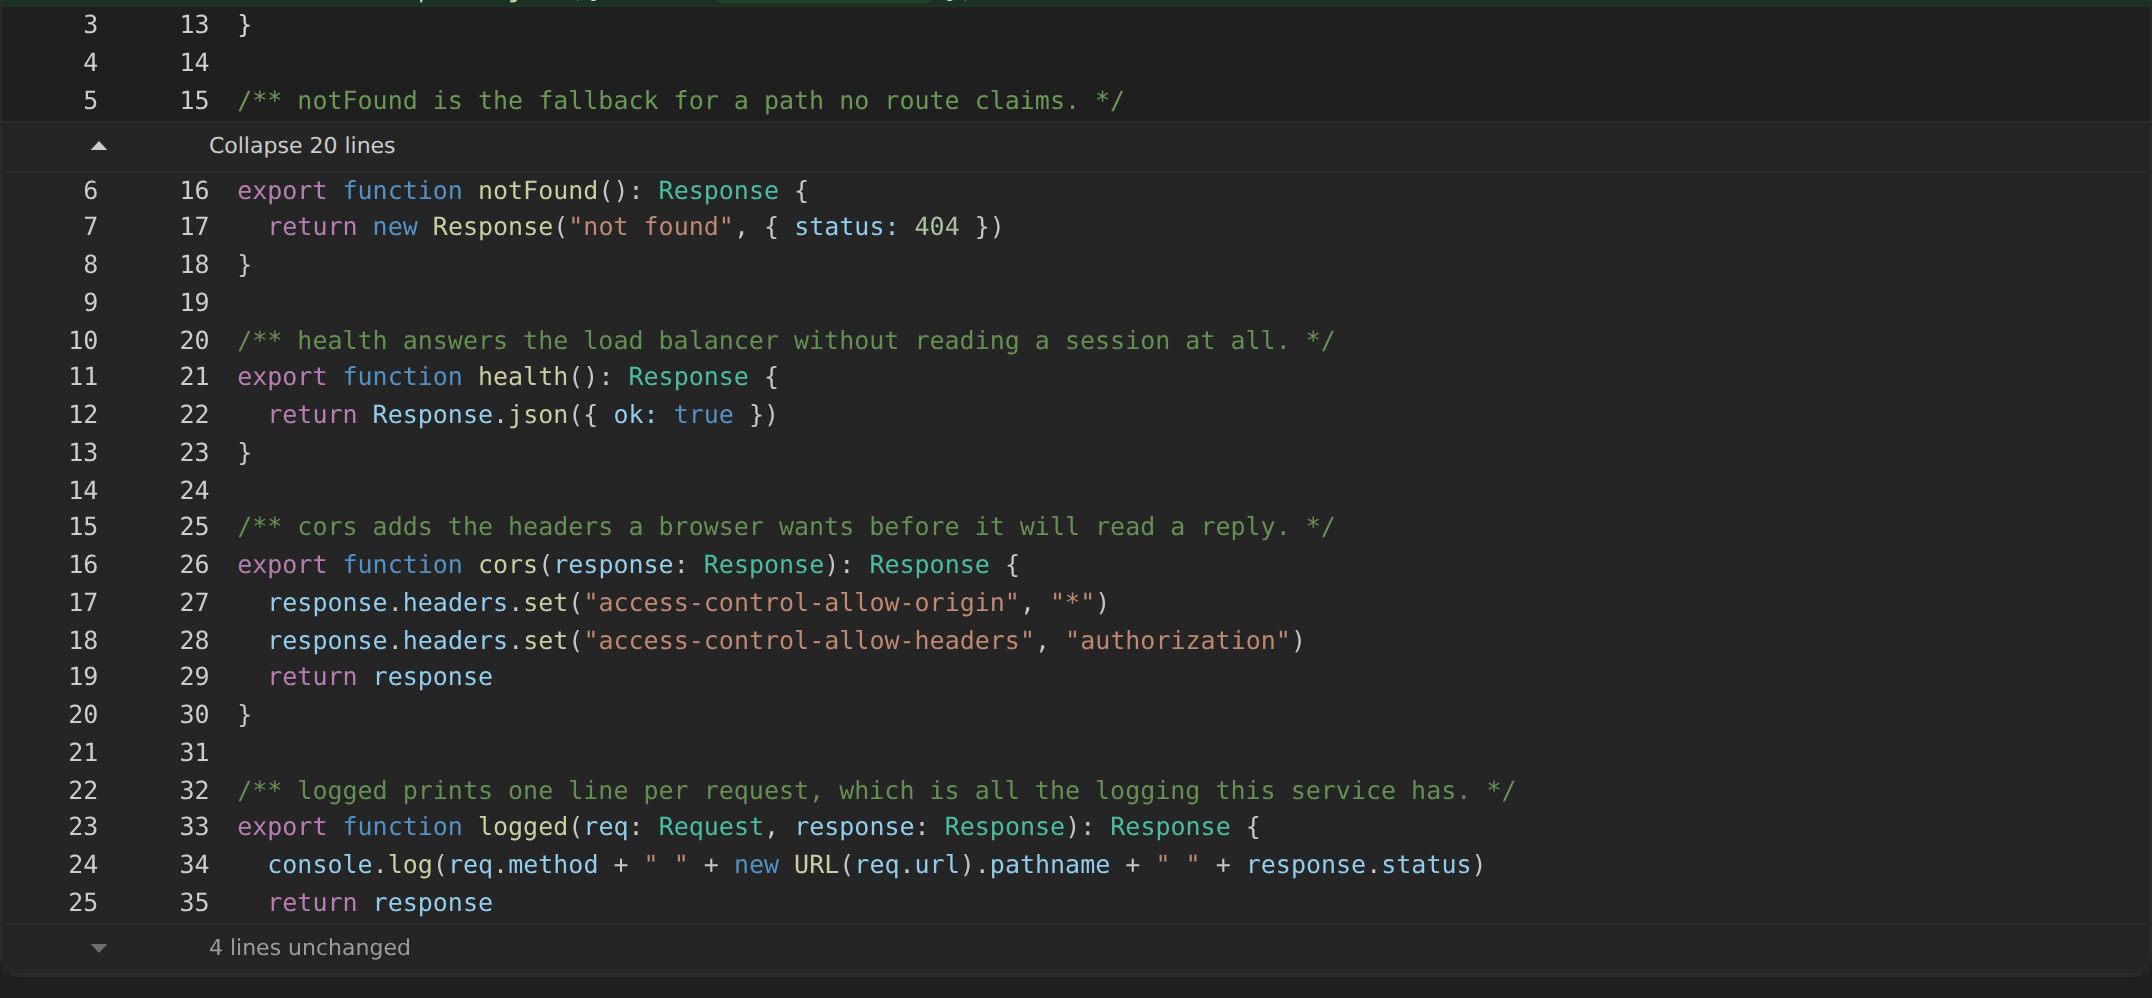
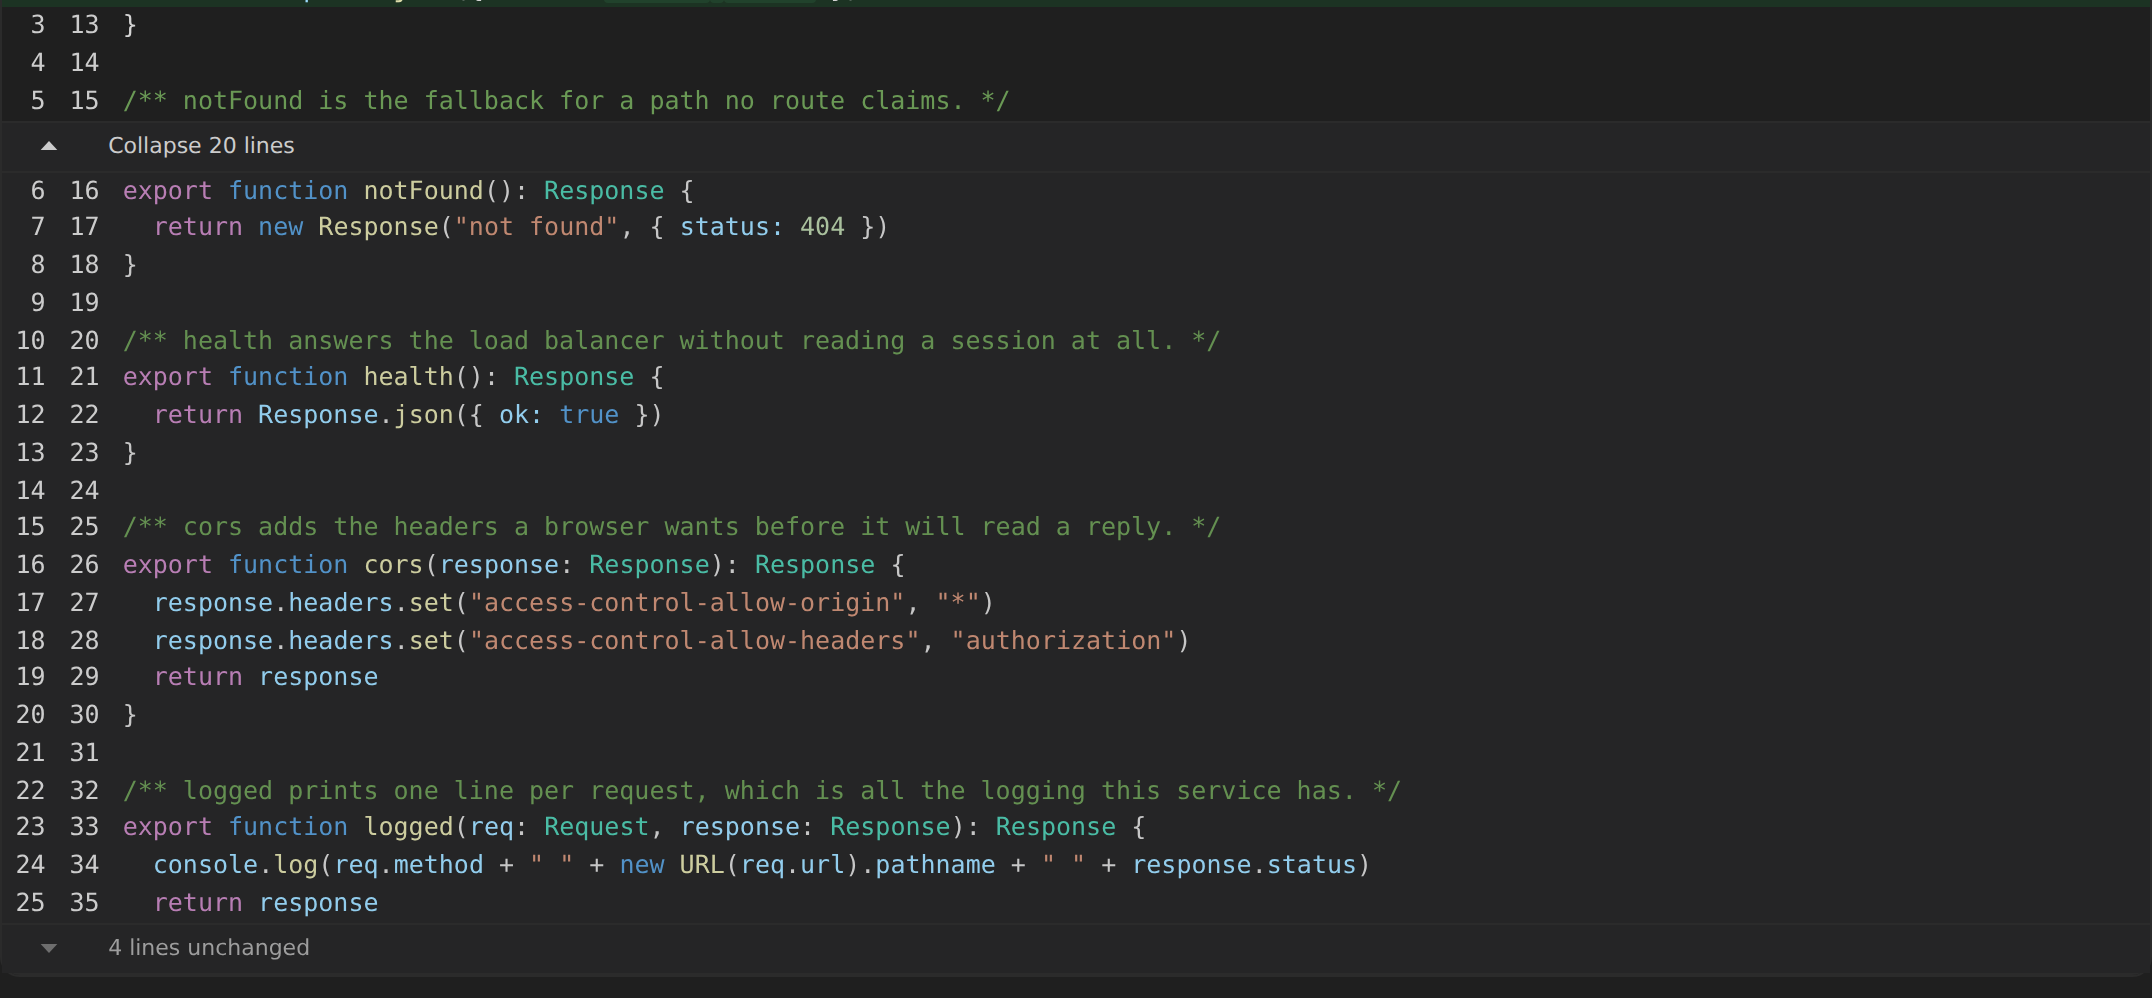
Give a line number a column its own width, not a flat seven
The library sizes both gutters at 7ch whatever the file holds, so a two-digit
number floats in the middle of its column and the two sides sit half a dozen
characters apart. Each gutter is now as wide as the widest number that file can
show, and a thread hangs off the line it marks rather than off a column of its
own.

Claude-Session: https://claude.ai/code/session_01GdVzQZNRY88Fe75gzKDsfJ

diff --git a/src/webview/theme.css b/src/webview/theme.css
@@ -533,7 +533,13 @@ textarea:focus { outline: 1px solid var(--vscode-focusBorder); }
 }
 
 .diff { font-size: var(--vscode-editor-font-size); }
-.diff-gutter { cursor: pointer; user-select: none; }
+
+/* the library sizes both gutters at a flat 7ch, which strands a two-digit number in the
+   middle of its column; FileDiff sets --gr-line-ch to the widest number the file can show,
+   so the numbers sit against the code they mark */
+.gr-file { --gr-line-pad: 0.7ch; --gr-line-col: calc(var(--gr-line-ch, 4) * 1ch + 2 * var(--gr-line-pad)); }
+.diff-gutter-col { width: var(--gr-line-col); }
+.diff-gutter { cursor: pointer; user-select: none; padding: 0 var(--gr-line-pad); }
 .diff-gutter:hover { color: var(--vscode-editorLineNumber-activeForeground); }
 .diff-code-edit, .diff-code-mark { border-radius: 2px; }
 .diff-decoration { color: var(--vscode-descriptionForeground); background: var(--vscode-editor-background); }
@@ -584,7 +590,7 @@ textarea:focus { outline: 1px solid var(--vscode-focusBorder); }
 .gr-fold-act:hover .gr-caret { color: var(--vscode-foreground); }
 
 /* two gutters wide, so the label starts where the code does */
-.gr-fold-caret { flex: 0 0 14ch; display: flex; align-items: center; justify-content: center; }
+.gr-fold-caret { flex: 0 0 calc(2 * var(--gr-line-col)); display: flex; align-items: center; justify-content: center; }
 .gr-fold-label { padding-left: 0.5em; }
 
 /* what a run hides is worth saying on the bar itself, since the reader cannot see it */
@@ -640,7 +646,8 @@ textarea:focus { outline: 1px solid var(--vscode-focusBorder); }
 
 /* ── threads ───────────────────────────────────────────────────────────── */
 
-.gr-widget { padding: 8px 10px 10px 52px; border-top: 1px solid var(--vscode-panel-border); border-bottom: 1px solid var(--vscode-panel-border); }
+/* a thread hangs off the line it marks, not off a column of its own */
+.gr-widget { padding: 8px 10px 10px 12px; border-top: 1px solid var(--vscode-panel-border); border-bottom: 1px solid var(--vscode-panel-border); }
 
 .gr-thread {
   position: relative;

diff --git a/src/webview/FileDiff.tsx b/src/webview/FileDiff.tsx
@@ -1,4 +1,4 @@
-import { Fragment, useEffect, useMemo, useState, type ReactNode } from 'react'
+import { Fragment, useEffect, useMemo, useState, type CSSProperties, type ReactNode } from 'react'
 import {
   Diff,
   computeNewLineNumber,
@@ -16,7 +16,7 @@ import {
 import type { ChangedFile, Thread } from '../core/types.js'
 import { Caret } from './Caret.js'
 import { CommentThread, NewCommentBox, type Quote } from './CommentThread.js'
-import { borrowedHunk, expandStep, gapsOf, hiddenIn, sizeOf, type Expansions, type Gap } from './expand.js'
+import { borrowedHunk, expandStep, gapsOf, gutterDigits, hiddenIn, sizeOf, type Expansions, type Gap } from './expand.js'
 import { languageForPath, plaintext, type HastNode, type RefractorLike } from './highlight.js'
 import { classNameOf, markClassName, styleOf } from './tokens.js'
 import { post } from './vscodeApi.js'
@@ -81,7 +81,11 @@ export const FileDiff = ({
   }
 
   return (
-    <section className={`gr-file${reviewed ? ' reviewed' : ''}`} id={fileAnchorId(pathOf(file))}>
+    <section
+      className={`gr-file${reviewed ? ' reviewed' : ''}`}
+      id={fileAnchorId(pathOf(file))}
+      style={{ '--gr-line-ch': gutterDigits(file.hunks, source?.length ?? 0) } as CSSProperties}
+    >
       <header className="gr-file-header">
         <button
           className="gr-file-toggle"

diff --git a/src/webview/expand.test.ts b/src/webview/expand.test.ts
@@ -1,6 +1,6 @@
 import { describe, it, expect } from 'vitest'
 import { parseDiff } from 'react-diff-view'
-import { borrowedHunk, gapsOf, hiddenIn } from './expand.js'
+import { borrowedHunk, gapsOf, gutterDigits, hiddenIn } from './expand.js'
 
 const source = Array.from({ length: 40 }, (_, i) => `line${i + 1}`)
 
@@ -70,5 +70,24 @@ describe('hiddenIn', () => {
 
     expect(middle!.shown).toBe(13)
     expect(hiddenIn(middle!)).toBe(0)
+  })
+})
+
+describe('gutterDigits', () => {
+  it('counts the digits of the last line, not the last one the patch touches', () => {
+    expect(gutterDigits(hunks, source.length)).toBe(2)
+    expect(gutterDigits(hunks, 1200)).toBe(4)
+  })
+
+  it('counts the new side when the change pushes it past the old one', () => {
+    const grown = parseDiff(
+      ['diff --git a/a.txt b/a.txt', '--- a/a.txt', '+++ b/a.txt', '@@ -9,1 +9,2 @@', ' line9', '+line10', ''].join('\n'),
+    )[0]?.hunks ?? []
+
+    expect(gutterDigits(grown, 9)).toBe(2)
+  })
+
+  it('holds a digit open for a file with no hunks at all', () => {
+    expect(gutterDigits([], 0)).toBe(1)
   })
 })

diff --git a/src/webview/expand.ts b/src/webview/expand.ts
@@ -72,6 +72,15 @@ export function hiddenIn(gap: Gap): number {
   return sizeOf(gap) - gap.shown
 }
 
+/** gutterDigits is how many characters the widest line number a file can show takes up. */
+export function gutterDigits(hunks: readonly HunkData[], lineCount: number): number {
+  const last = hunks[hunks.length - 1]
+  // a run past the last hunk reaches the end of the file, so the source outruns the patch
+  const oldEnd = Math.max(lineCount, last ? last.oldStart + last.oldLines - 1 : 1)
+  const newEnd = oldEnd + deltaOf(last, undefined)
+  return String(Math.max(oldEnd, newEnd, 1)).length
+}
+
 /** deltaOf is what the old line numbers around a pair of hunks are shifted by on the new side. */
 function deltaOf(above: HunkData | undefined, below: HunkData | undefined): number {
   if (above) {
